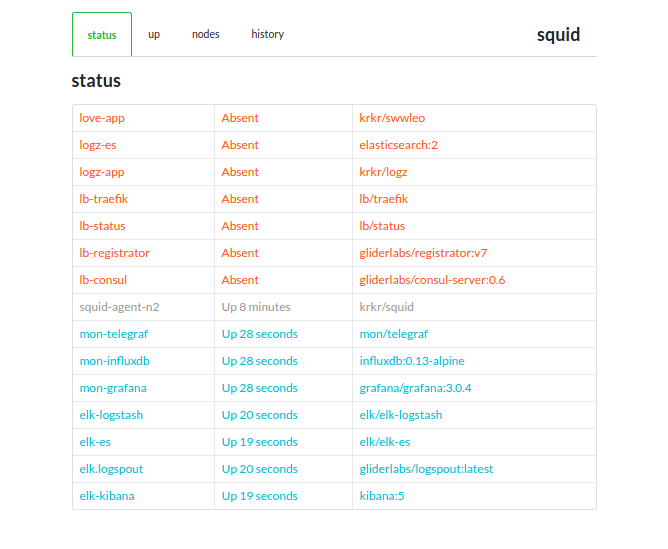
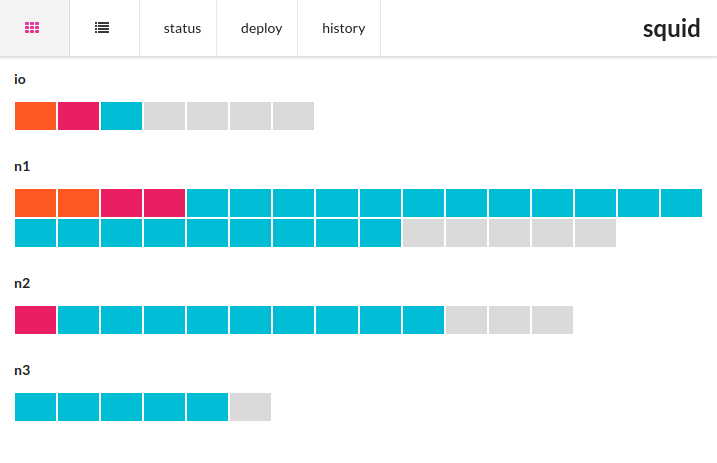
Revisit the layout

diff --git a/views/index.html b/views/index.html
@@ -1,43 +1,67 @@
 <!doctype html>
-<html>
-<head>
-<title>squid</title>
-<link rel="icon" href="favicon.ico" type="image/gif">
-<link rel="stylesheet" type="text/css" href="https://cdnjs.cloudflare.com/ajax/libs/semantic-ui/2.1.8/semantic.min.css">
+<html><head>
+  <meta charset="utf-8" />
+  <meta http-equiv="X-UA-Compatible" content="IE=edge,chrome=1" />
+  <meta name="viewport" content="width=device-width, initial-scale=1.0, maximum-scale=1.0">
+  <title>squid</title>
+  <link rel="icon" href="favicon.ico" type="image/gif">
+  <link rel="stylesheet" type="text/css" href="https://cdnjs.cloudflare.com/ajax/libs/semantic-ui/2.1.8/semantic.min.css">
 </head><body>
 <style>
 /** begin:CSS **/
 
 .main {
-  padding-top: 1em;
-}
-
-.tpl {
-  margin-top: 1em;
+  padding-top: 70px;
 }
 
 .output {
   font-size: 0.7em;
 }
 
-.status-OK,
-.status-Up {
+tr.status-OK,
+tr.status-Up {
   color: #00BCD4;
 }
 
-.status-ERROR,
-.status-Created,
-.status-Exited,
-.status-Restarting {
+tr.status-ERROR,
+tr.status-Exited,
+tr.status-Created,
+tr.status-Restarting {
   color: #e91e63;
 }
 
-.status-Absent {
+tr.status-Absent {
   color: #ff5722;
 }
 
-.status-Unknown {
+tr.status-Z,
+tr.status-Unknown {
   color: #999;
+}
+
+.square-status {
+  border: 1px white solid;
+}
+
+div.status-OK,
+div.status-Up {
+  background-color: #00BCD4;
+}
+
+div.status-ERROR,
+div.status-Created,
+div.status-Exited,
+div.status-Restarting {
+  background-color: #e91e63;
+}
+
+div.status-Absent {
+  background-color: #ff5722;
+}
+
+div.status-Z,
+div.status-Unknown {
+  background-color: #dadada;
 }
 
 .json {
@@ -51,31 +75,51 @@
 }
 
 .ellipsis {
-  max-width: 200px;
+  max-width: 150px;
   overflow: hidden;
   text-overflow: ellipsis;
   white-space: nowrap;
 }
 
+.ui.menu .action {
+  min-width: 5rem;
+  text-align: center;
+  padding-left: 1.7em;
+}
+
+.ui.menu .title:before {
+  width: 0;
+}
+
+.table td {
+  font-size: 1em;
+}
+
+
 /** end:CSS **/
 </style>
 <!-- begin:HTML -->
 
-<body>
-<div class="main text ui container">
-  <div class="ui top attached tabular menu">
-    <a class="item pink action-nodes">nodes</a>
-    <a class="item green action-status active">status</a>
-    <a class="item teal action-up">up</a>
-    <a class="item purple action-logs">history</a>
+<body onload="$init()">
+<div class="main ui container">
+
+  <div class="ui top fixed menu">
+
+    <a class="item pink action action-nodes"><i class="grid layout icon"></i></a>
+    <a class="item pink action action-nodes_table"><i class="list browser icon"></i></a>
+    <a class="item green action action-status">status</a>
+    <a class="item teal action action-up">deploy</a>
+    <a class="item purple action action-logs">history</a>
+
     <div class="right menu">
-      <div class="item">
+      <div class="item title">
         <h2>squid</h2>
       </div>
     </div>
   </div>
 
   <div class="ui tpl nodes"></div>
+  <div class="ui tpl nodes_table"></div>
   <div class="ui tpl up"></div>
   <div class="ui tpl status"></div>
   <div class="ui tpl logs"></div>
@@ -86,15 +130,43 @@
     </div>
   </script>
 
+  <script type="text/html" id="tpl_nodes_table">
+    <% for ( var node in obj ) { %>
+    <h3><%= node %></h3>
+    <table class="ui very basic compact unstackable table">
+      <tbody>
+        <% for ( var s in obj[node] ) { %>
+        <tr class="toggle-control-def status-<%= obj[node][s].status %>">
+          <td><%= obj[node][s].name %></td>
+          <td><%= obj[node][s].fullStatus %></td>
+          <td class="ellipsis"><%= obj[node][s].image %></td>
+        </tr>
+        <% } %>
+      </tbody>
+    </table>
+    <% } %>
+  </script>
+
+  <script type="text/html" id="tpl_nodes">
+    <% for ( var node in obj ) { %>
+    <h5><%= node %></h5>
+    <div class="ui aligned padded grid">
+        <% for ( var s in obj[node] ) { %>
+        <div class="column square-status status-<%= obj[node][s].status %>">
+        </div>
+        <% } %>
+    </div>
+    <% } %>
+  </script>
+
   <script type="text/html" id="tpl_status">
-    <h2>status</h2>
-    <table class="ui celled very compact table">
+    <table class="ui very basic compact unstackable table">
       <tbody>
         <% for ( var c in obj ) { %>
         <tr class="toggle-control-def status-<%= obj[c].status %>">
           <td><%= obj[c].name %></td>
           <td><%= obj[c].fullStatus %></td>
-          <td><%= obj[c].image %></td>
+          <td class="ellipsis"><%= obj[c].image %></td>
         </tr>
         <% } %>
       </tbody>
@@ -102,8 +174,7 @@
   </script>
 
   <script type="text/html" id="tpl_up">
-    <h2>up</h2>
-    <table class="ui celled very compact basic table">
+    <table class="ui very basic compact unstackable table">
       <tbody>
         <% for ( var cmd in obj ) { %>
         <tr>
@@ -121,27 +192,8 @@
     </table>
   </script>
 
-  <script type="text/html" id="tpl_nodes">
-    <h2>nodes</h2>
-    <% for ( var node in obj ) { %>
-    <h3><%= node %></h3>
-    <table class="ui celled very compact table">
-      <tbody>
-        <% for ( var s in obj[node] ) { %>
-        <tr class="toggle-control-def status-<%= obj[node][s].status %>">
-          <td><%= obj[node][s].name %></td>
-          <td><%= obj[node][s].fullStatus %></td>
-          <td class="ellipsis"><%= obj[node][s].image %></td>
-        </tr>
-        <% } %>
-      </tbody>
-    </table>
-    <% } %>
-  </script>
-
   <script type="text/html" id="tpl_logs">
-    <h2>logs</h2>
-    <table class="ui celled very compact basic table">
+    <table class="ui very basic compact table">
       <tbody>
         <% for ( var i in obj ) { %>
         <tr class="status-<%= obj[i].cmd.status %>">
@@ -159,43 +211,14 @@
 
 <!-- end:HTML -->
 </div>
-<script src="https://thbkrkr.github.io/s.js/dist/s.3.ad334a2.js"></script><script>
+<script src="https://thbkrkr.github.io/s.js/dist/s.5.f1202eb.js"></script><script>
 /** begin:JS */
-
-  function $call(action) {
-    if (action == null) {
-      for (first in actions) break;
-      action = first
-    }
-
-    obj = actions[action]
-
-    // Unactive/active elements and reset template
-    for ( var a in actions ) {
-      if (a == action) {
-        $('.action-'+a).addClass('active')
-      } else {
-        $('.tpl.'+a).html('')
-        $('.action-'+a).removeClass('active')
-      }
-    }
-
-    args = ""
-    r = $param('r')
-    if (r != null) args = "&r=" + r
-    window.history.pushState(action, action, "?p=" + action + args)
-
-    if (obj.loading) {
-      $('.tpl.'+action).html($tpl('tpl_loading'))
-    }
-
-    $loadTpl(action)
-  }
-
-  //
 
 actions = {
   nodes: {
+    url: '/api/nodes/status'
+  },
+  nodes_table: {
     url: '/api/nodes/status'
   },
   status: {
@@ -203,10 +226,7 @@ actions = {
   },
   up: {
     url: '/api/compose/up',
-    loading: true,
-    onSuccess: function() {
-      $loadTpl('status')
-    }
+    loading: true
   },
   logs: {
     url: '/api/executions',
@@ -215,15 +235,6 @@ actions = {
     }
   }
 }
-
-// -- main
-
-function main() {
-  $bind(actions)
-  $call($param('p'))
-}
-
-main()
 
 /** end:JS */
 </script></body></html>

diff --git a/controllers/collector.go b/controllers/collector.go
@@ -37,6 +37,7 @@ func Statuses(c *gin.Context) {
 }
 
 func GetAgent(c *gin.Context) {
+	url := "https://squid.blurb.space"
 	getAgentScript := `docker pull krkr/squid
 docker rm -f squid-agent 2> /dev/null || true
 docker run -d \
@@ -47,7 +48,7 @@ docker run -d \
   -v /var/run/docker.sock:/var/run/docker.sock \
   -e DOMAIN=${DOMAIN} -e ONS_ZONE=${ONS_ZONE} \
   --restart=always \
-  krkr/squid -c http://localhost:4242
+  krkr/squid -c ` + url + `
 `
 
 	c.String(200, getAgentScript)

diff --git a/controllers/deploy.go b/controllers/deploy.go
@@ -7,6 +7,7 @@ import (
 	"sync"
 	"time"
 
+	"github.com/Sirupsen/logrus"
 	"github.com/gin-gonic/gin"
 )
 
@@ -56,6 +57,7 @@ func GetComposeUp(c *gin.Context) {
 			var data map[string]interface{}
 			err = json.Unmarshal([]byte(in), &data)
 			if err != nil {
+				logrus.WithError(err).Errorf("Fail to execute: doo -q dc %s up -d", compose)
 				c.JSON(500, err.Error())
 				return
 			}

diff --git a/controllers/status.go b/controllers/status.go
@@ -189,7 +189,7 @@ func mergeDockerStatusAndCompose(containers []types.Container, composes []Compos
 			Image:      container.Image,
 			Name:       strings.Replace(container.Names[0], "/", "", -1),
 			FullStatus: container.Status,
-			Status:     "Unknown",
+			Status:     "Z",
 			Definition: []string{},
 		})
 	}
